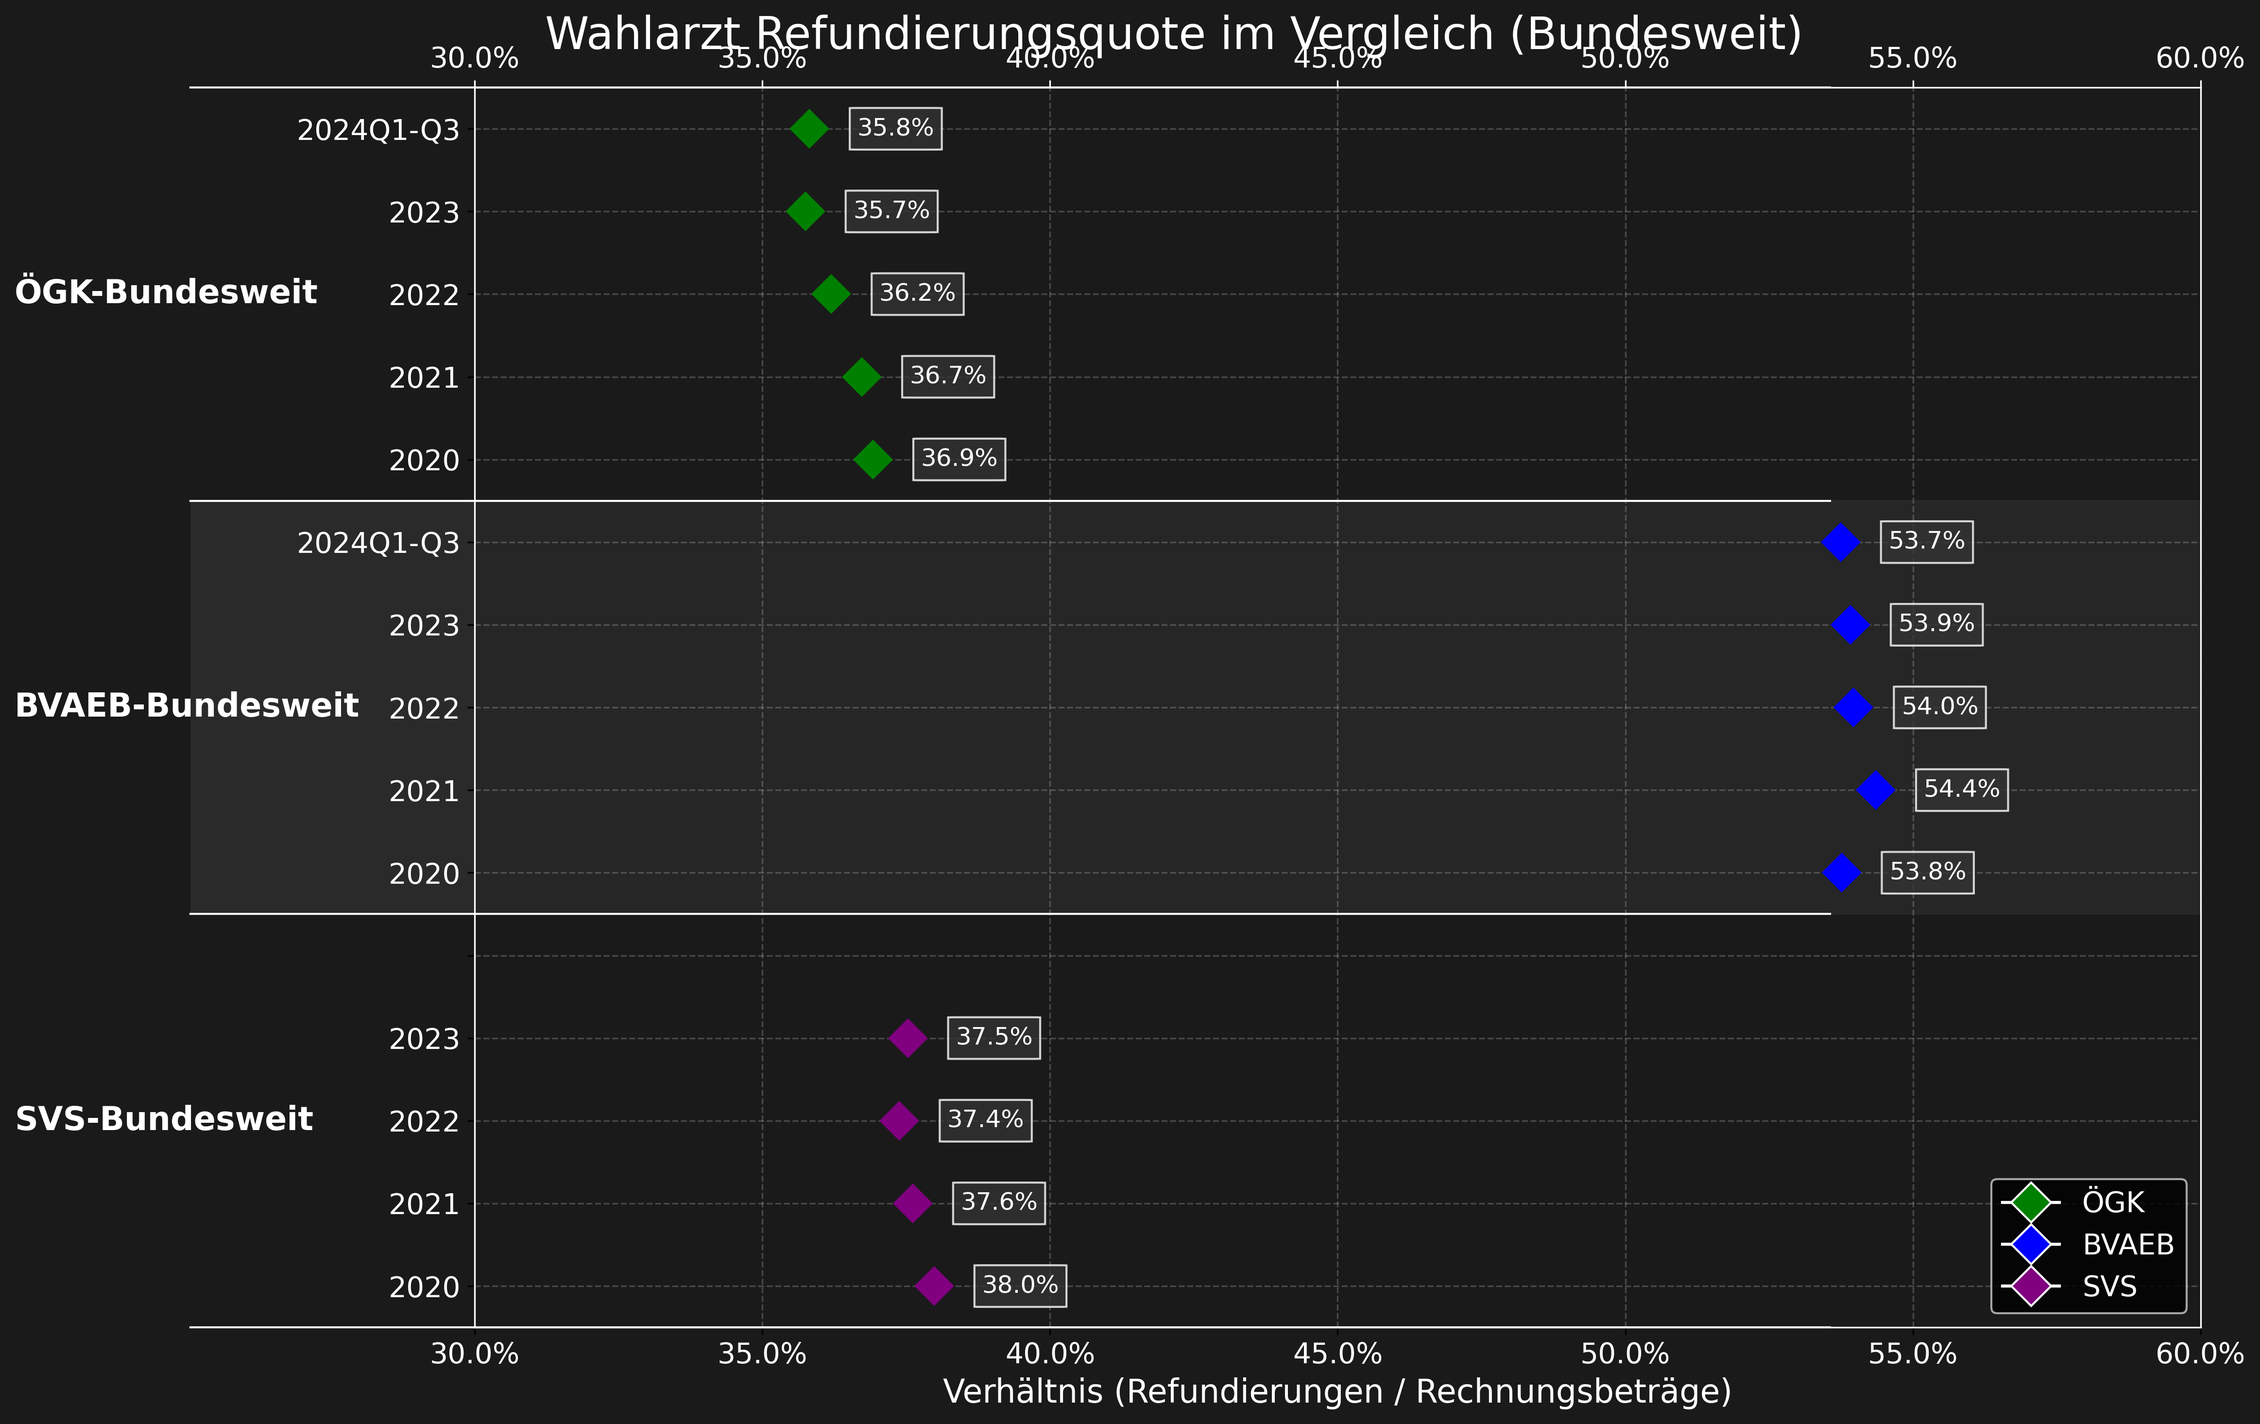
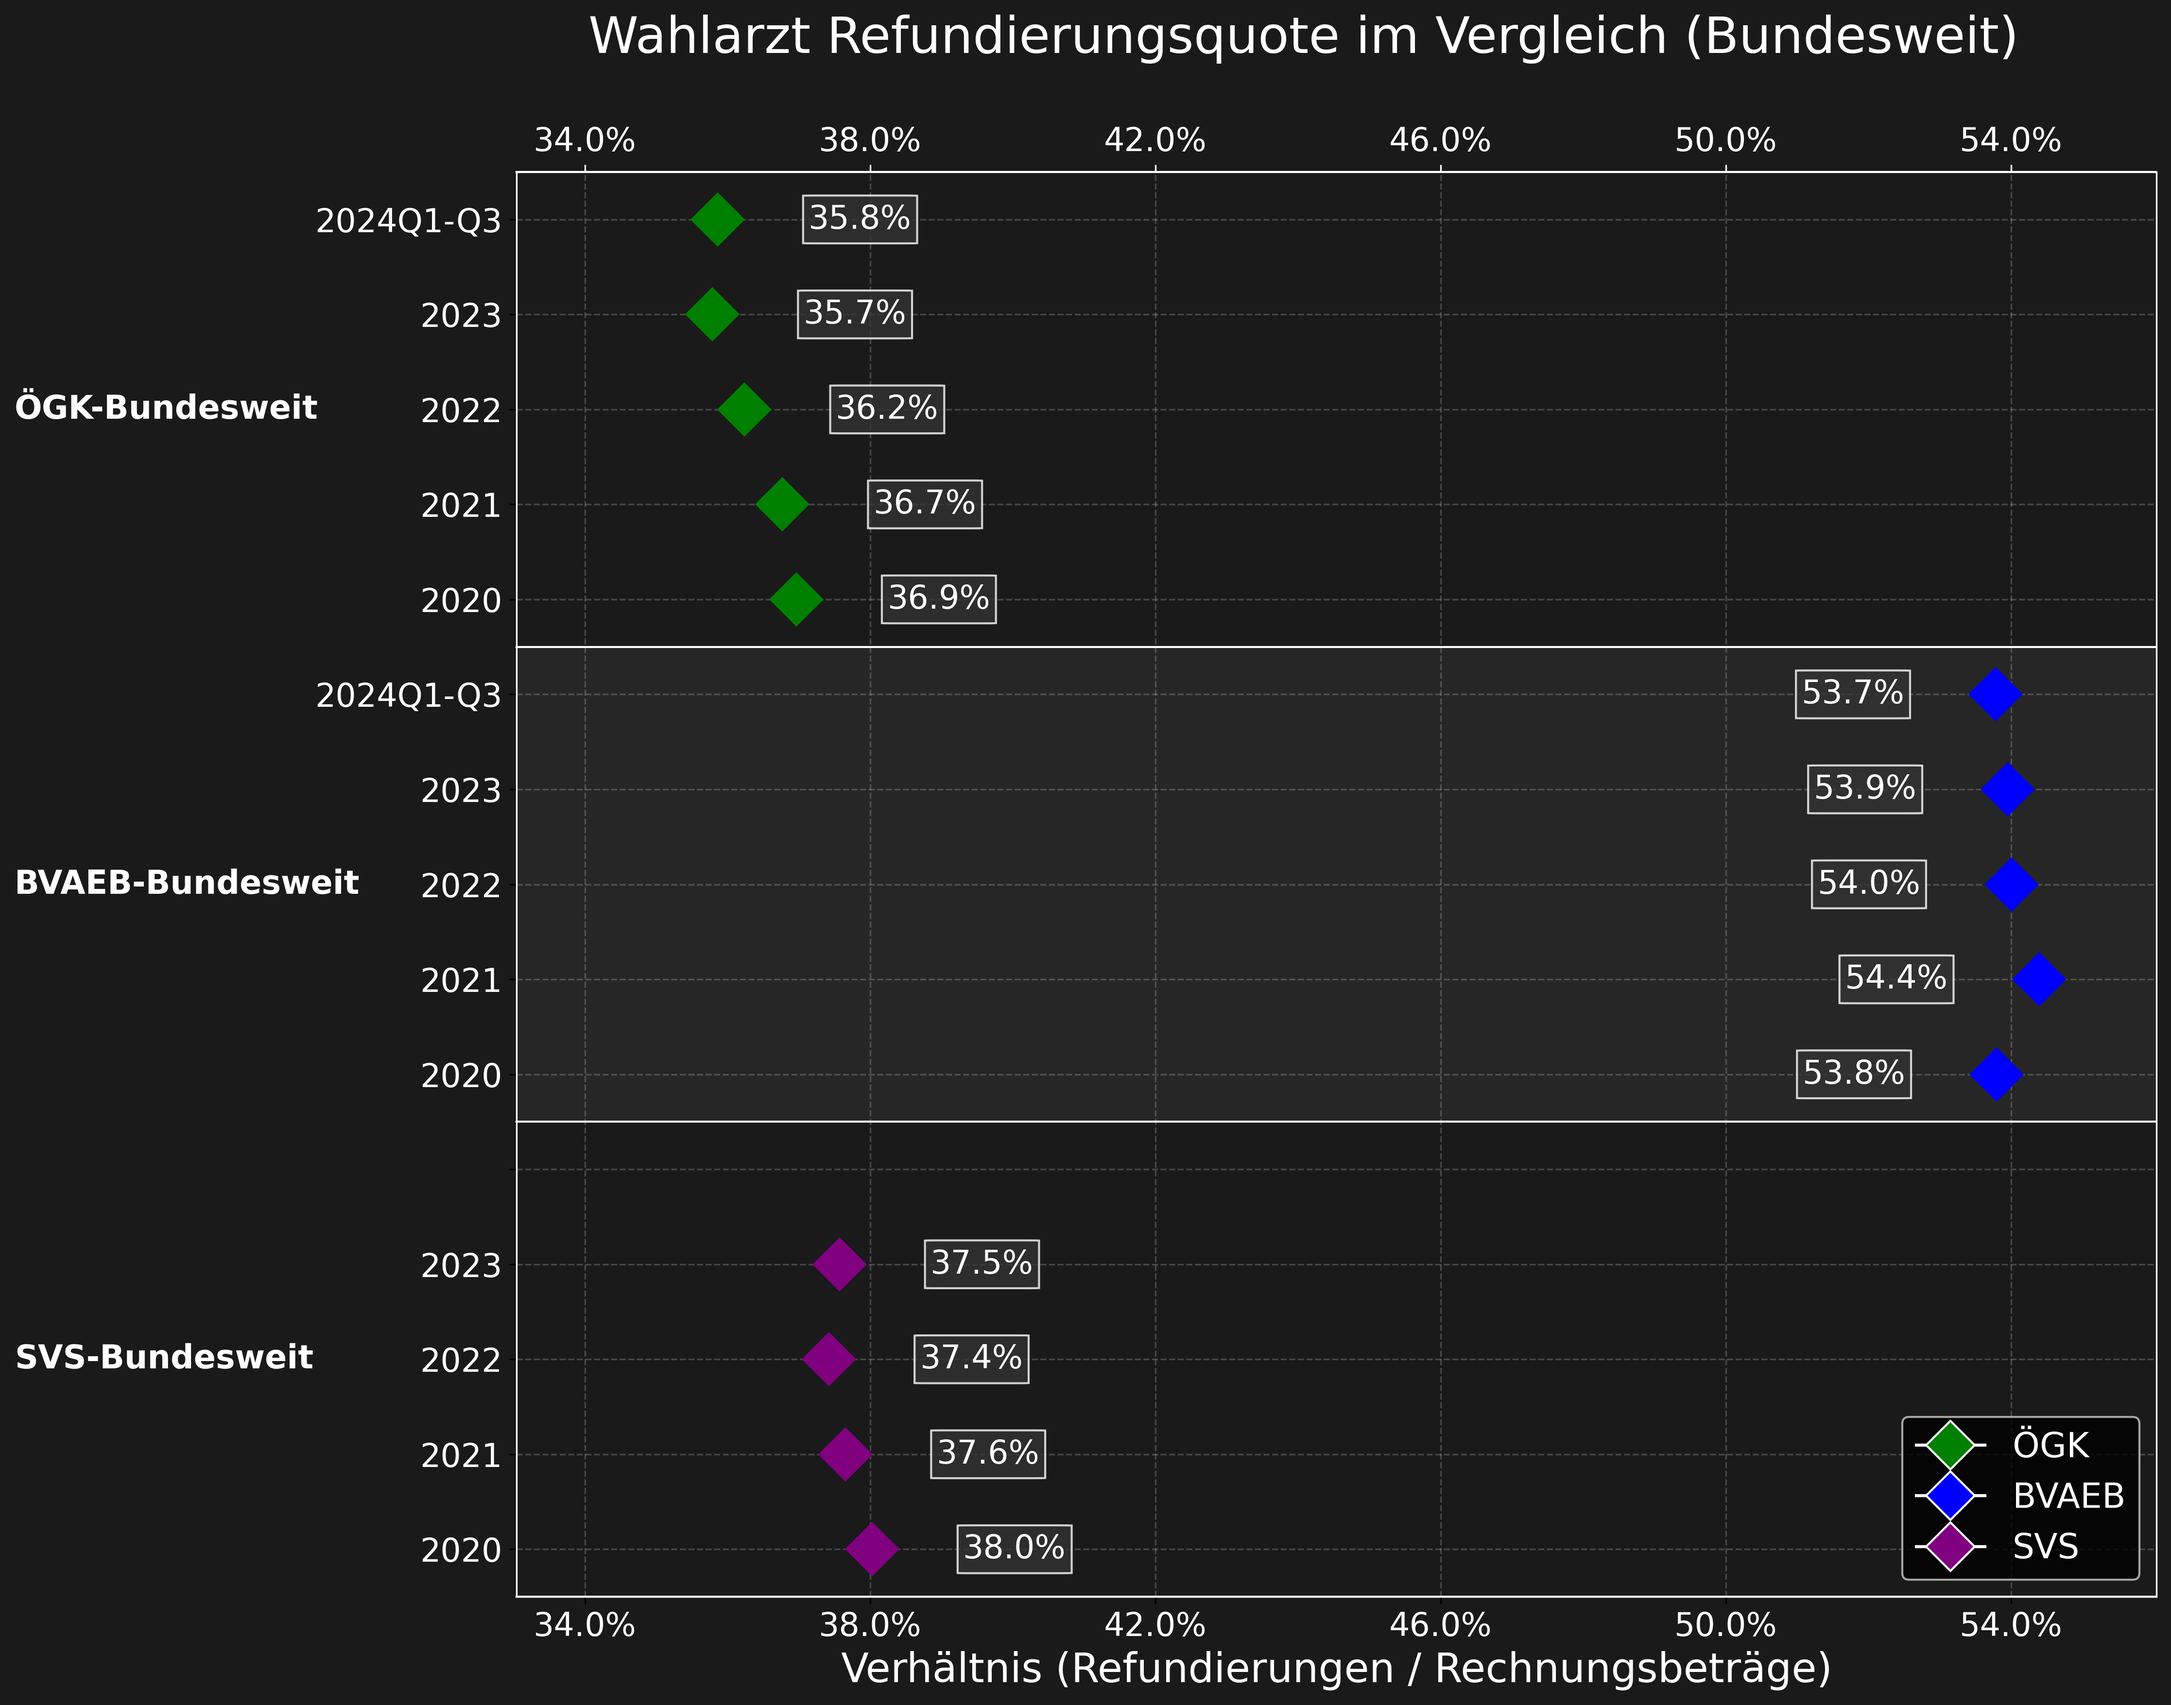
improved insurance comparison points

diff --git a/visualize/plot_insurance_comparison_ratio_points.py b/visualize/plot_insurance_comparison_ratio_points.py
@@ -43,7 +43,7 @@ def create_plot(bvaeb_file, oegk_file, svs_file, dark_mode=True):
     oegk_df["Insurance"] = "ÖGK"
     # Convert Year to string to ensure consistent type
     oegk_df["Year"] = oegk_df["Year"].astype(str)
-    
+
     # SVS data
     svs_df = pd.read_csv(svs_file)
     svs_df = svs_df[svs_df["Bundesland"] == "Gesamt"].copy()
@@ -54,9 +54,9 @@ def create_plot(bvaeb_file, oegk_file, svs_file, dark_mode=True):
 
     # Combine all data
     combined_df = pd.concat([bvaeb_df, oegk_df, svs_df], ignore_index=True)
-    
+
     # Initialize figure with landscape format for better comparison
-    fig, ax = plt.subplots(figsize=(15, 10))
+    fig, ax = plt.subplots(figsize=(12, 12))
 
     # Apply theme based on dark_mode setting
     if dark_mode:
@@ -81,11 +81,11 @@ def create_plot(bvaeb_file, oegk_file, svs_file, dark_mode=True):
         else:
             # Regular years are just converted to float
             return float(year_str)
-    
+
     # Get unique years and sort them
     all_years = combined_df["Year"].unique()
     years = sorted(all_years, key=year_sort_key, reverse=True)
-    
+
     # Reorder insurances to put BVAEB in the middle
     insurances = ["ÖGK", "BVAEB", "SVS"]
 
@@ -122,7 +122,7 @@ def create_plot(bvaeb_file, oegk_file, svs_file, dark_mode=True):
 
     # Plot data points
     colors = {"BVAEB": "blue", "ÖGK": "green", "SVS": "purple"}
-    
+
     for i, insurance in enumerate(insurances):
         insurance_data = combined_df[combined_df["Insurance"] == insurance]
         for j, year in enumerate(years):
@@ -130,46 +130,46 @@ def create_plot(bvaeb_file, oegk_file, svs_file, dark_mode=True):
             if not year_data.empty:
                 ratio = year_data["Ratio"].iloc[0]
                 y_pos = i * len(years) + j
-                
+
                 # Plot the insurance's data point
                 ax.plot(
                     ratio, 
                     y_pos, 
                     "D", 
                     color=colors[insurance], 
-                    markersize=13, 
+                    markersize=18, 
                     zorder=2,
                     label=f"{insurance} {year}" if j == 0 else ""
                 )
-                
+
                 # Add text label with percentage in a box
                 label_text = f"{ratio:.1%}"
-                text_x = ratio + 0.015
-                
+                text_x = ratio + 0.02 if i != 1 else ratio - 0.02
+
                 # Create text object to get its dimensions
                 text = ax.text(
                     text_x, 
                     y_pos, 
                     label_text, 
-                    fontsize=12, 
+                    fontsize=16, 
                     color="white" if dark_mode else "black",
                     verticalalignment="center",
                     horizontalalignment="center",
                     zorder=4
                 )
-                
+
                 # Get text dimensions to create box
                 bbox = text.get_window_extent(renderer=fig.canvas.get_renderer())
                 bbox = bbox.transformed(ax.transData.inverted())
-                
+
                 # Create a fixed-size box with proper proportions
                 box_width = 0.012  # Fixed width
                 box_height = 0.5  # Fixed height
-                
+
                 # Center the box on the text
                 box_x = text_x - box_width/2
                 box_y = y_pos - box_height/2
-                
+
                 # Create box around text with rounded corners
                 rect = patches.FancyBboxPatch(
                     (box_x, box_y), 
@@ -183,7 +183,7 @@ def create_plot(bvaeb_file, oegk_file, svs_file, dark_mode=True):
                     zorder=3
                 )
                 ax.add_patch(rect)
-                
+
                 # Bring text to front
                 text.set_zorder(5)
 
@@ -193,40 +193,41 @@ def create_plot(bvaeb_file, oegk_file, svs_file, dark_mode=True):
     # Set title and labels - move title higher
     plt.suptitle(
         "Wahlarzt Refundierungsquote im Vergleich (Bundesweit)",
-        fontsize=22,
+        fontsize=25,
         y=0.97,  # Moved up from 0.95
         color=text_color,
     )
     ax.set_xlabel(
-        "Verhältnis (Refundierungen / Rechnungsbeträge)", fontsize=16, color=text_color
+        "Verhältnis (Refundierungen / Rechnungsbeträge)", fontsize=20, color=text_color
     )
 
     # Configure y-axis (years)
     ax.set_yticks(y_positions)
-    ax.set_yticklabels(y_labels, color=text_color, fontsize=14)
+    ax.set_yticklabels(y_labels, color=text_color, fontsize=16)
 
     # Configure x-axis (ratio values)
     # Find min and max values to set appropriate range
     min_ratio = combined_df["Ratio"].min() * 0.95  # Add 5% padding
     max_ratio = combined_df["Ratio"].max() * 1.05  # Add 5% padding
-    
+
     # Round to nice values
-    min_ratio = np.floor(min_ratio * 20) / 20  # Round down to nearest 0.05
-    max_ratio = np.ceil(max_ratio * 20) / 20   # Round up to nearest 0.05
-    
+    # min_ratio = np.floor(min_ratio * 20) / 20  # Round down to nearest 0.05
+    # max_ratio = np.ceil(max_ratio * 20) / 20   # Round up to nearest 0.05
+
     ax.set_ylim(-0.5, total_positions - 0.5)
-    ax.set_xlim(min_ratio, max_ratio)
-    
+    # ax.set_xlim(min_ratio, max_ratio)
+    ax.set_xlim(0.33, 0.56)
+
     # Create nice tick spacing
-    x_ticks = np.arange(min_ratio, max_ratio + 0.01, 0.05)
+    x_ticks = np.arange(min_ratio, max_ratio, 0.04)
     ax.set_xticks(x_ticks)
-    ax.set_xticklabels([f"{x:.1%}" for x in x_ticks], color=text_color, fontsize=14)
-    
+    ax.set_xticklabels([f"{x:.1%}" for x in x_ticks], color=text_color, fontsize=16)
+
     # Add duplicate x-axis at the top for better readability
     ax2 = ax.twiny()
     ax2.set_xlim(ax.get_xlim())
     ax2.set_xticks(x_ticks)
-    ax2.set_xticklabels([f"{x:.1%}" for x in x_ticks], color=text_color, fontsize=14)
+    ax2.set_xticklabels([f"{x:.1%}" for x in x_ticks], color=text_color, fontsize=16)
 
     # Add insurance provider labels - moved further left
     for i in range(len(insurances)):
@@ -252,16 +253,16 @@ def create_plot(bvaeb_file, oegk_file, svs_file, dark_mode=True):
     # Add legend for insurance providers
     legend_elements = [
         plt.Line2D(
-            [0], [0], marker="D", color="w", markerfacecolor="green", markersize=14, label="ÖGK"
+            [0], [0], marker="D", color="w", markerfacecolor="green", markersize=17, label="ÖGK"
         ),
         plt.Line2D(
-            [0], [0], marker="D", color="w", markerfacecolor="blue", markersize=14, label="BVAEB"
+            [0], [0], marker="D", color="w", markerfacecolor="blue", markersize=17, label="BVAEB"
         ),
         plt.Line2D(
-            [0], [0], marker="D", color="w", markerfacecolor="purple", markersize=14, label="SVS"
+            [0], [0], marker="D", color="w", markerfacecolor="purple", markersize=17, label="SVS"
         ),
     ]
-    ax.legend(handles=legend_elements, loc="lower right", fontsize=14)
+    ax.legend(handles=legend_elements, loc="lower right", fontsize=17)
 
     # Reverse y-axis for chronological order
     ax.invert_yaxis()
@@ -271,7 +272,7 @@ def create_plot(bvaeb_file, oegk_file, svs_file, dark_mode=True):
         OUTPUT_DIR,
         f"insurance_comparison_ratio_{'dark' if dark_mode else 'light'}.png",
     )
-    
+
     # Configure save parameters
     save_kwargs = {"dpi": 300, "bbox_inches": "tight"}
     if dark_mode:
@@ -281,8 +282,8 @@ def create_plot(bvaeb_file, oegk_file, svs_file, dark_mode=True):
 
     # Adjust layout
     plt.tight_layout()
-    plt.subplots_adjust(top=0.92)  # Adjusted to make room for higher title
-    plt.subplots_adjust(left=0.18)  # Increased from 0.15 to make room for labels
+    plt.subplots_adjust(top=0.88)  # Adjusted to make room for higher title
+    plt.subplots_adjust(left=0.05)  # Increased from 0.15 to make room for labels
 
     # Add background elements in figure coordinates
     # Background rectangles for odd-numbered insurances
@@ -318,7 +319,7 @@ def create_plot(bvaeb_file, oegk_file, svs_file, dark_mode=True):
             * ax.get_position().height
         )
         line = plt.Line2D(
-            [0.05, 0.8],
+            [0.05, 0.987],
             [fig_y, fig_y],
             transform=fig.transFigure,
             color=text_color,
